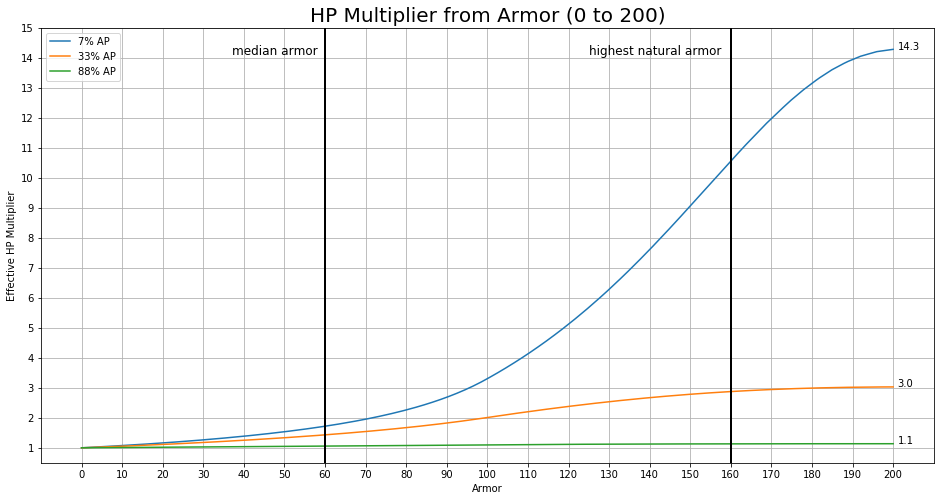
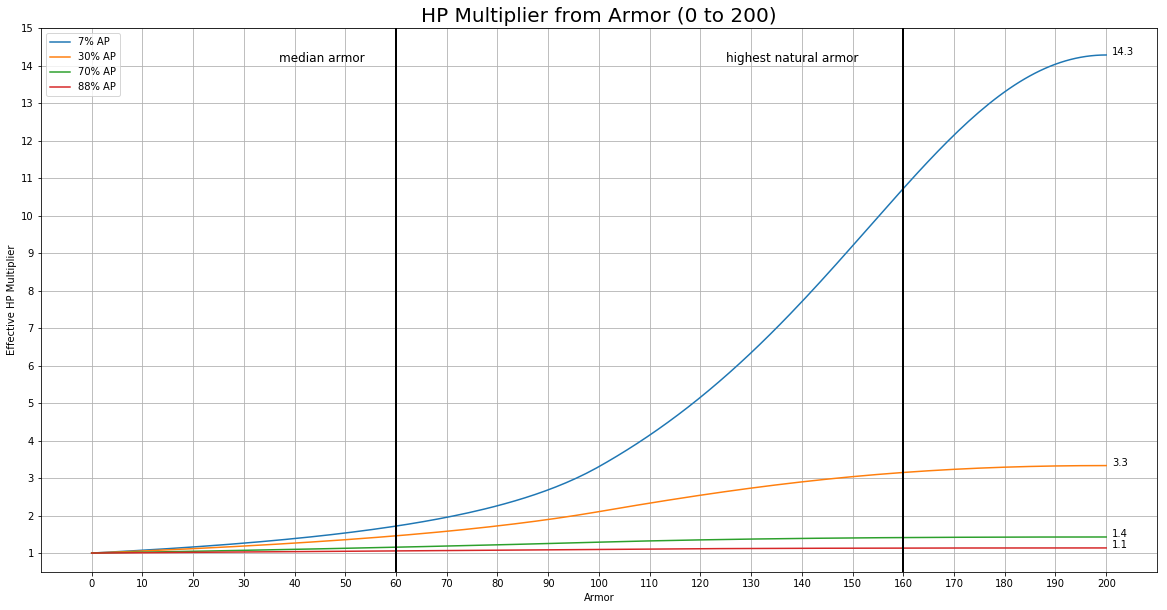
new armor calculation

diff --git a/WarhammerArmor.py b/WarhammerArmor.py
@@ -4,9 +4,9 @@ from UtilityFunctions import average_damage_with_armor_ratio
 
 
 # Defaults armor is max allowed
-# Default ap_fractions are the lowest, median, and highest ap_fractions in the
+# Default ap_fractions are the lowest, the two typical, and highest ap_fractions in the
 # game
-def armor_graph(max_armor=200,ap_fractions=[.07,.33,.88],armor_lines=[60,160]):
+def armor_graph(max_armor=200,ap_fractions=[.07,.3,.7,.88],armor_lines=[60,160]):
     
     legend_names = [f"{int(i*100)}% AP" for i in ap_fractions]
     armor = np.linspace(0,max_armor,200)
@@ -16,7 +16,7 @@ def armor_graph(max_armor=200,ap_fractions=[.07,.33,.88],armor_lines=[60,160]):
     upper_lims = []
     
     fig = plt.figure()
-    fig.set_size_inches(16, 8)
+    fig.set_size_inches(20, 10)
     for ap in ap_fractions:
         hp_mult = [100/average_damage_with_armor_ratio(100,ap,a) for a in armor]
         plt.plot(armor,hp_mult)
@@ -46,3 +46,19 @@ if __name__ == '__main__':
     armor_graph()
     plt.annotate("median armor",[37,14.1],size=12)
     plt.annotate("highest natural armor",[125,14.1],size=12)
+    
+    import pickle
+    print("To keep this up to date check the values used")
+    unitsDF = pickle.load( open( "unitsDF.p", "rb" ) )
+    
+    
+    max_armor = max(unitsDF["armour"])
+    med_armor = np.nanmedian(unitsDF["armour"])
+    
+    min_ap = min(unitsDF["melee_ap_ratio"])
+    max_ap = max(unitsDF["melee_ap_ratio"])
+    med_hi_ap = np.nanmedian(unitsDF[unitsDF["melee_ap_ratio"] > .5]["melee_ap_ratio"])
+    med_lo_ap = np.nanmedian(unitsDF[unitsDF["melee_ap_ratio"] < .5]["melee_ap_ratio"])
+    
+    print(f"Median Armor: {med_armor}\nMax Armor: {max_armor}")
+    print(f"Min AP: {min_ap}\nMax AP: {max_ap}\nHigh AP: {med_hi_ap}\nLow AP: {med_lo_ap}")

diff --git a/UtilityFunctions.py b/UtilityFunctions.py
@@ -11,11 +11,25 @@ unitsDF = pickle.load( open( "unitsDF.p", "rb" ) )
 #  armour. This armour roll is a random value between 50% and 100% of the 
 #  armour stat. The armour roll is then applied as percentage damage 
 #  reduction."
-def average_armor_reduction(armor):
+# Legacy calculation method by numerica simulation
+def average_armor_reduction_old(armor):
     """Returns the proportion of base damage blocked by the given armor value"""
-    ar = np.linspace(armor/2,armor)
+    ar = np.linspace(armor/2,armor,1000)
     ar = [min(x,100) for x in ar]
     return np.mean(ar)/100
+
+# Credit to u/Panthera__Tigris on reddit for coming up with this
+def average_armor_reduction(armor):
+    """Returns the proportion of base damage blocked by the given armor value"""
+    if armor < 0:
+        raise Exception("Armor cannot be less than 0")
+    elif armor <= 100:
+        return np.mean([armor,armor/2])/100
+    elif armor <= 200:
+        return (100*(armor-100)+(100-armor*0.5)*((armor*0.5+100)*0.5))/((armor-100)+(100-armor*0.5))/100
+    else:
+        raise Exception("Armor cannot be more than 200")
+
 
 def average_damage_with_armor_raw(base_damage,ap_damage,armor):
     """
@@ -122,3 +136,7 @@ if __name__ == '__main__':
 #    print(all_with_attribute(unitsDF,"strider"))
 #    print(no_summoned(unitsDF))
 #    print(unit_named(unitsDF,"Zombies"))
+    
+    for ar in [9,10,11,12,13,75,150]:
+        print(average_armor_reduction(ar))
+        print(average_armor_reduction_old(ar))

diff --git a/StatHistograms.py b/StatHistograms.py
@@ -35,6 +35,9 @@ histoplot(units['melee_defence'],np.arange(0,105,5),[i*5 for i in range(0,21)],[
 histoplot(units['melee_total_damage'],np.arange(0,600,20),[i*20 for i in range(0,31)],[13,6],
           "Total Damage Distribution\nWith 20th, 50th, 80th Percentiles")
 
+histoplot(units['melee_ap_ratio'],np.arange(0,1,.1),np.arange(0,1,.1),[13,6],
+          "AP Ratio Distribution\nWith 20th, 50th, 80th Percentiles")
+
 
 L = []
 for dam,cste in zip(units['melee_total_damage'],units['caste']):
